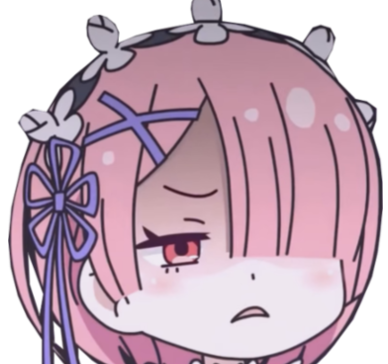
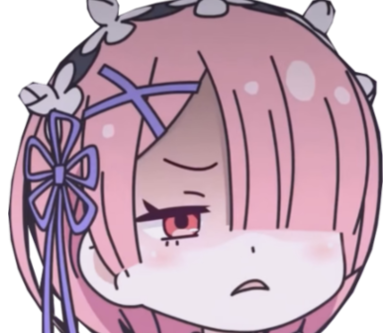
* updated bubble wrap to support 20x20 grid

diff --git a/src/Components/Pages/BubbleWrap.css b/src/Components/Pages/BubbleWrap.css
@@ -3,7 +3,7 @@
 }
 
 img {
-  width: 100px;
+  width: 50px;
 }
 
 img.rem {
